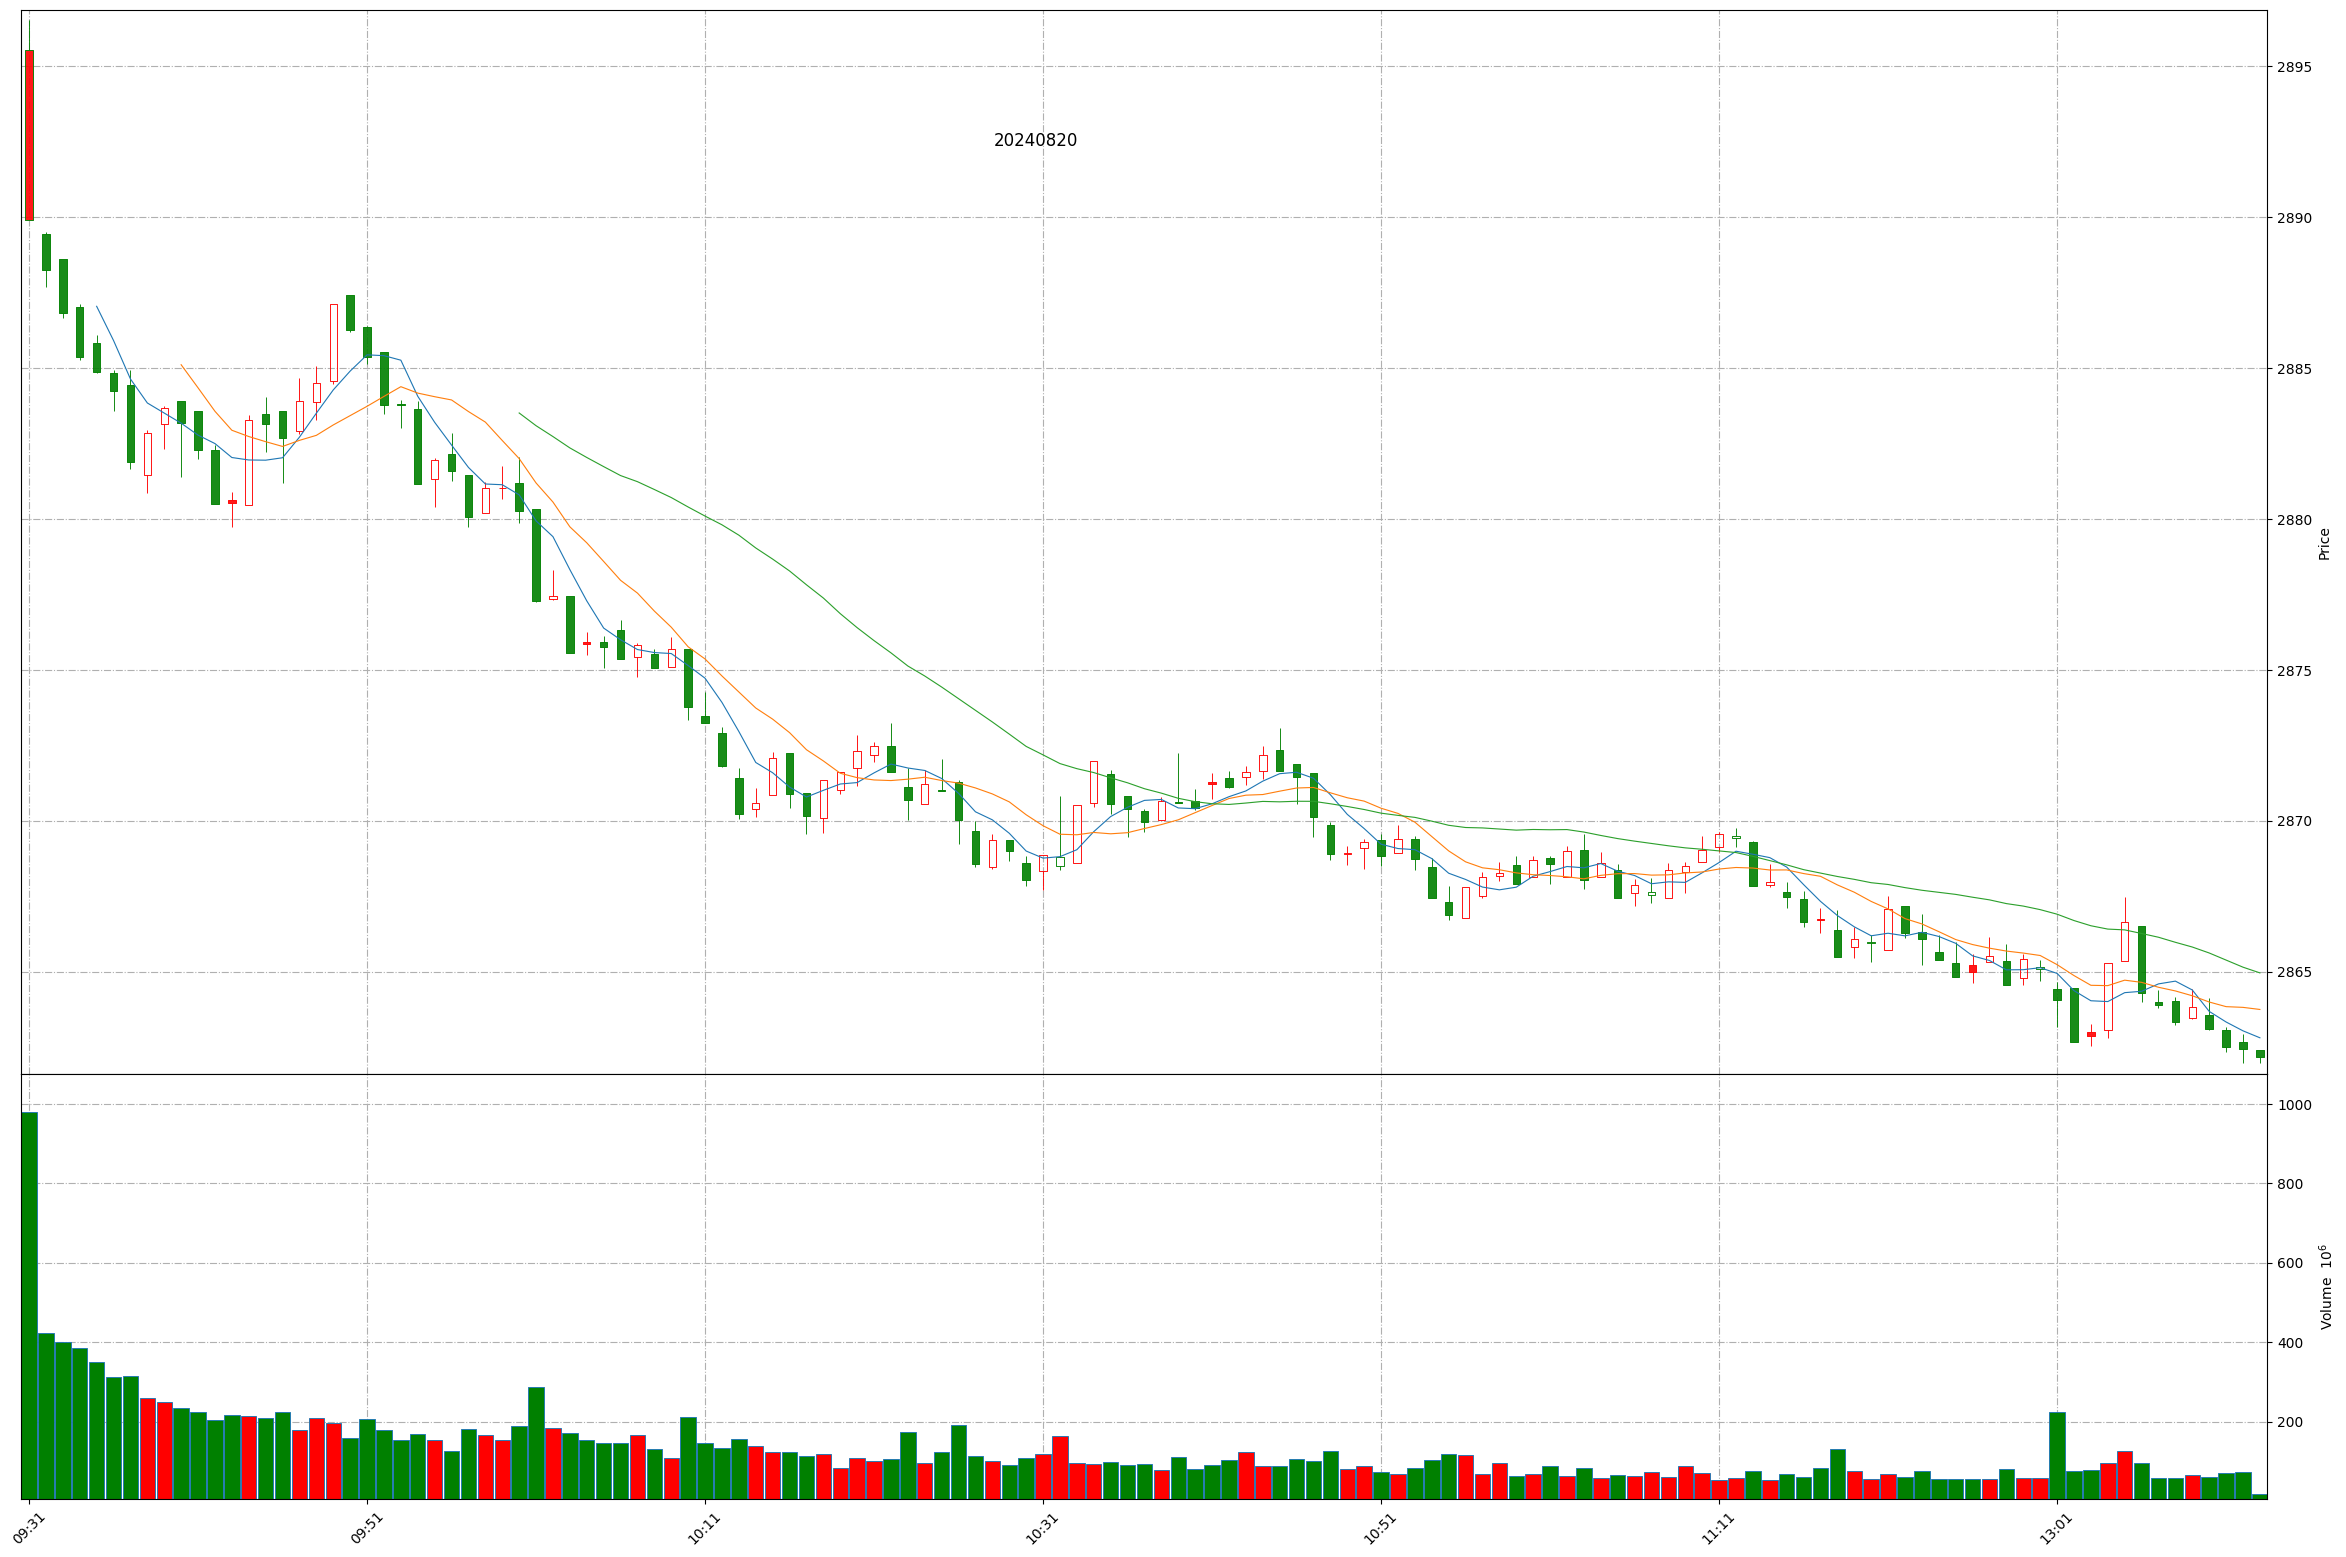
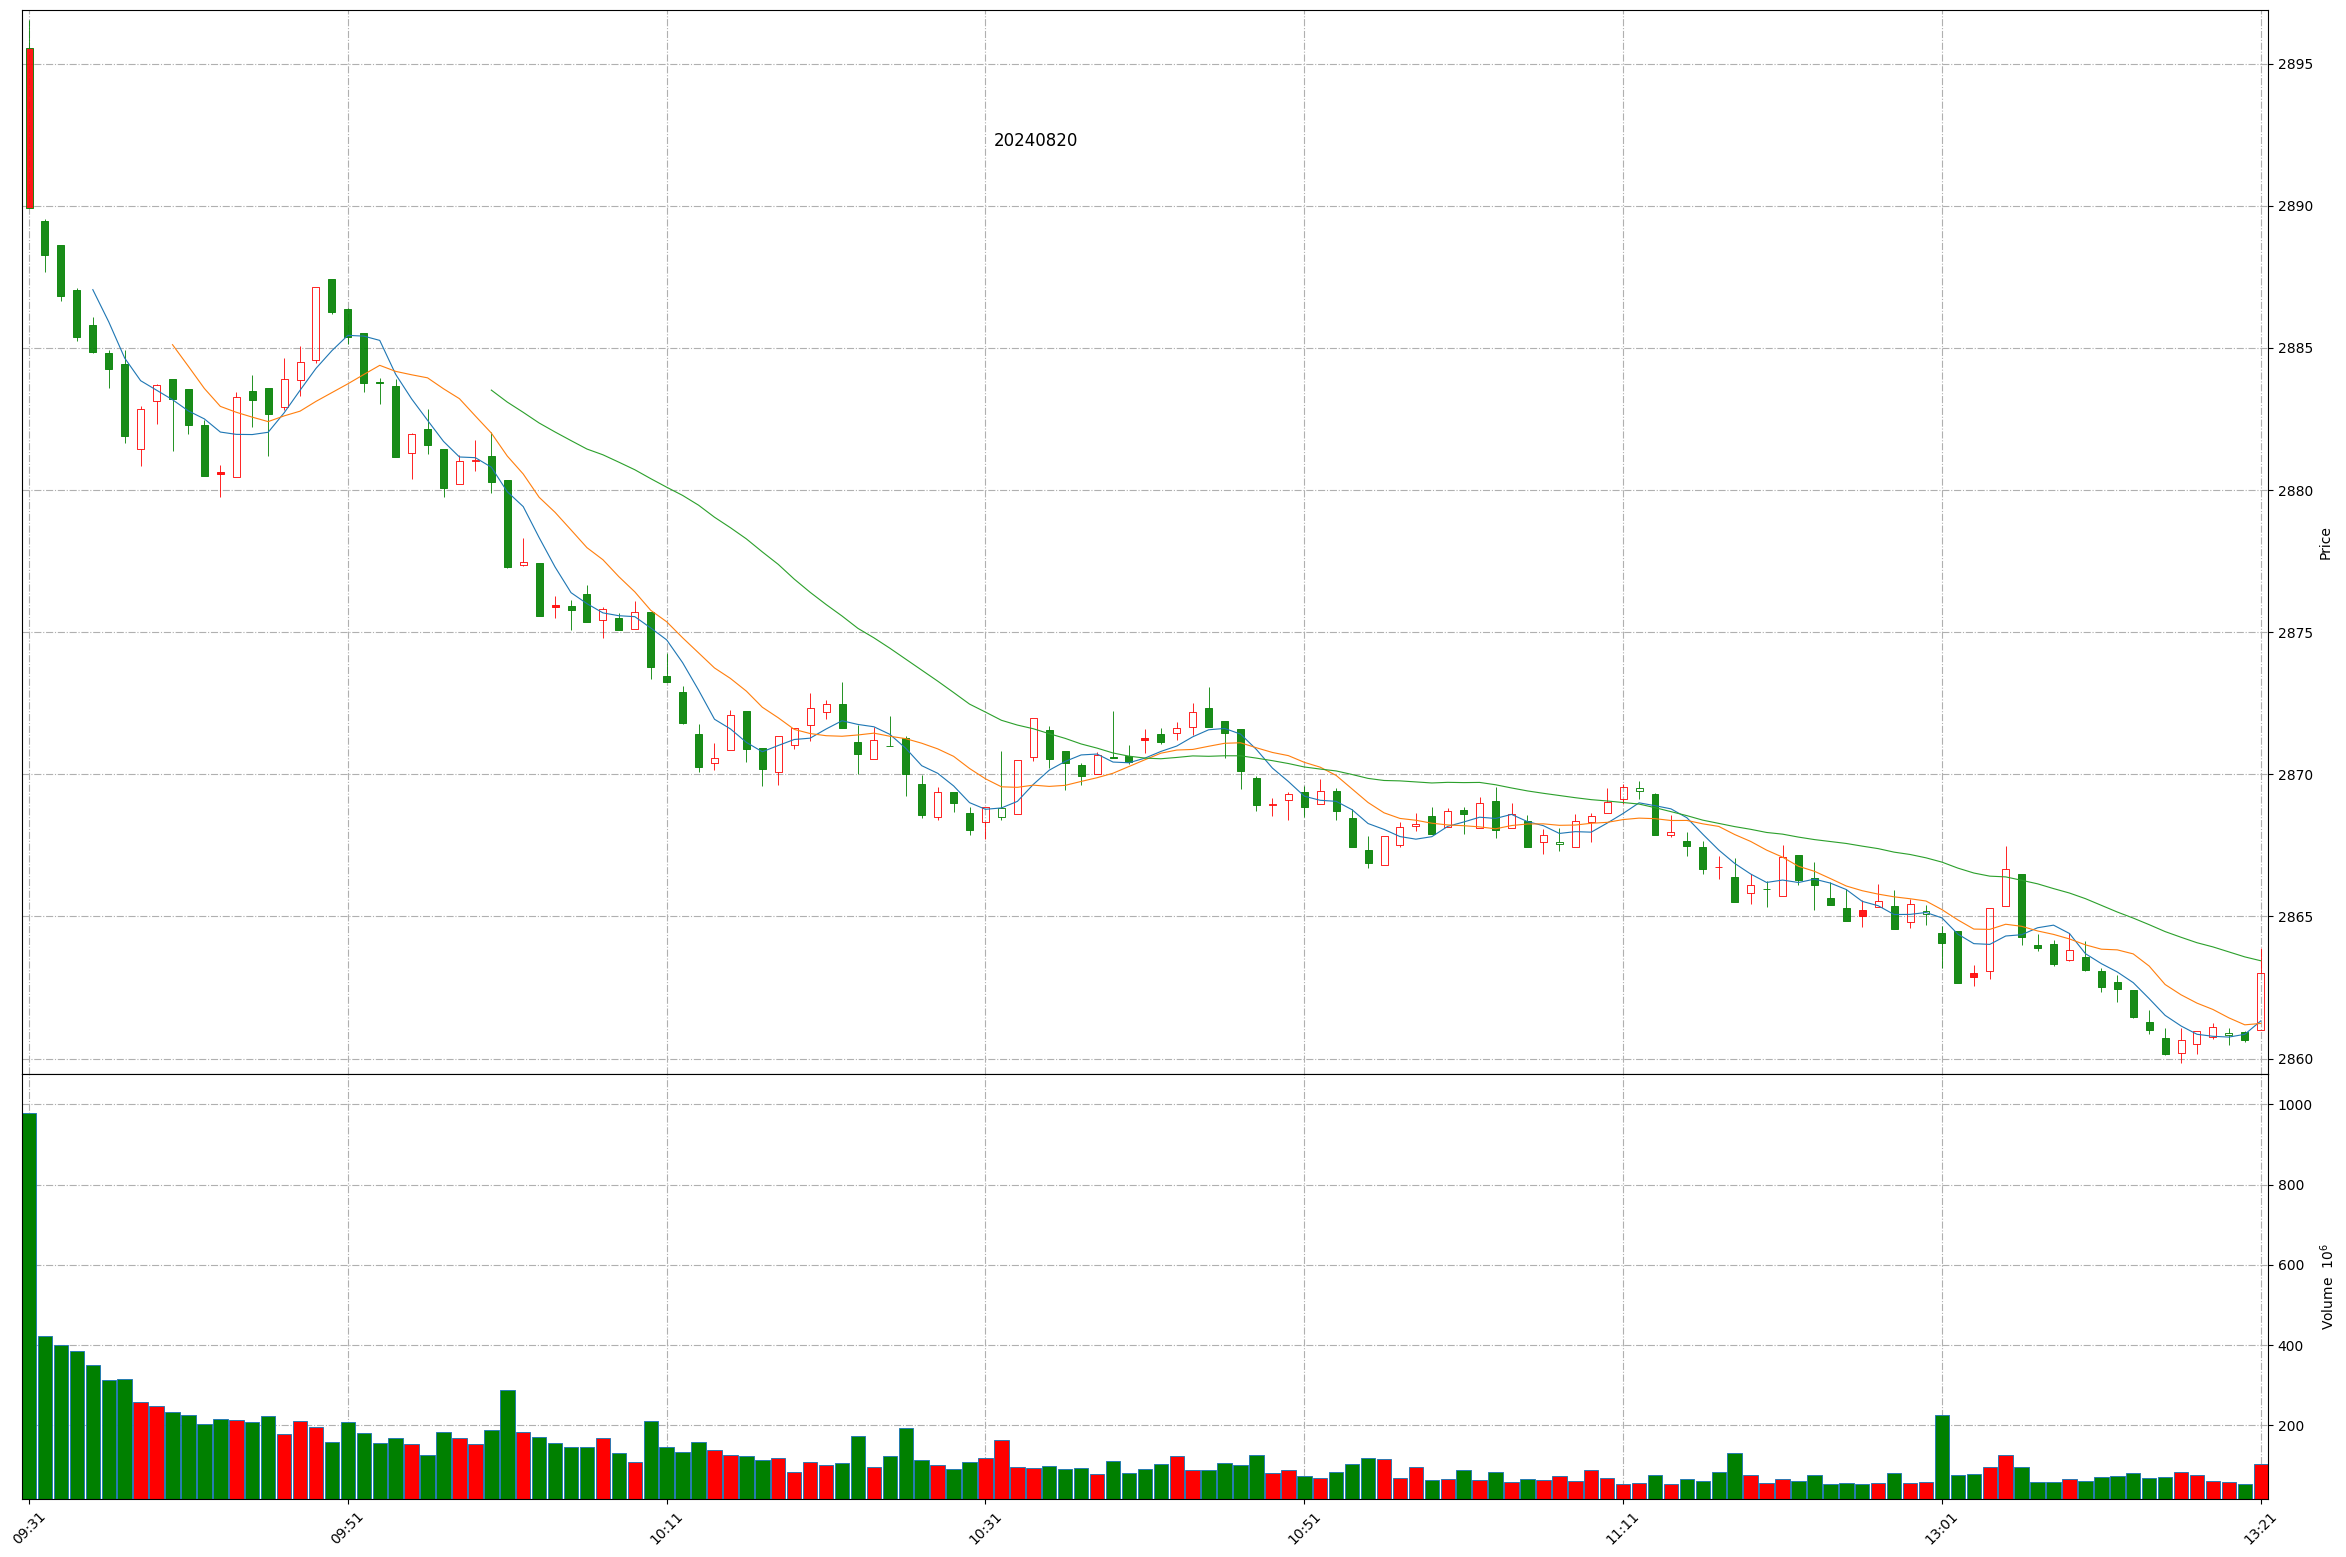
Github action update at 2024-08-20 13:21:25.

diff --git a/README.md b/README.md
@@ -1,11 +1,11 @@
 
 # Daily-A-share-market-quotes 每日 A 股指数（5min 更新）- 20240820
 
-### 上证指数 20240820 13:12
+### 上证指数 20240820 13:21
 ![](./fig/2024/8/20240820-sh000001.png)
 
-### 深证成指 20240820 13:12
+### 深证成指 20240820 13:21
 ![](./fig/2024/8/20240820-sz399001.png)
 
-### 北证50 20240820 13:12
+### 北证50 20240820 13:21
 ![](./fig/2024/8/20240820-bj899050.png)
